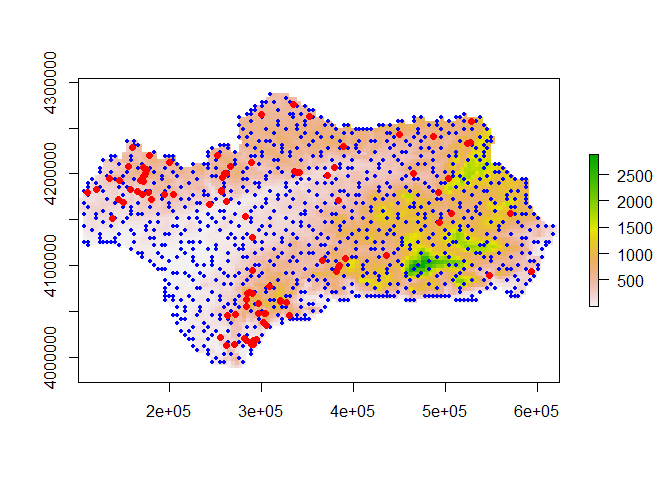
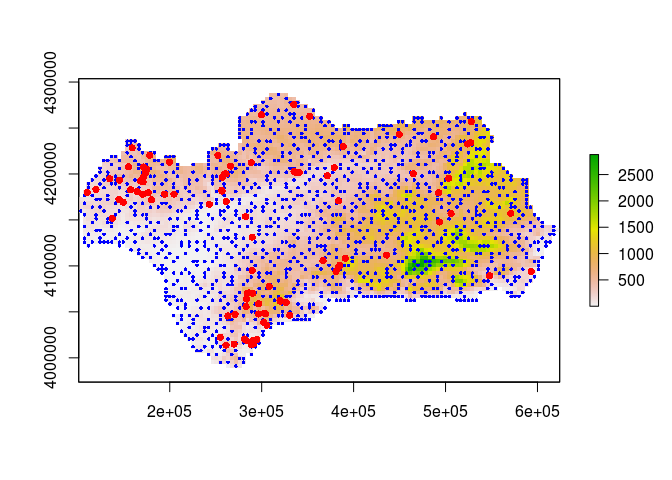
added quasirandom_covariate background points.

diff --git a/readme.md b/readme.md
@@ -70,12 +70,23 @@ For a laugh, let's generate some quasirandom background points and plot them aga
 ``` r
 library(qrbp)
 POdata <- species[species$Occurrence == 1,]
-bkpts <- generate_background_points(number_of_background_points = 1000,
+bkpts <- generate_background_points(number_of_background_points = 2000,
                                     known_sites = POdata@coords,
                                     study_area = preds[[1]],
                                     model_covariates = preds,
-                                    method = 'quasirandom')
+                                    resolution = 2000,
+                                    method = 'quasirandom_covariates')
 ```
+
+    ## Number of samples considered (number of samples found): 20000(0)
+
+    ## Finished
+
+``` r
+nrow(bkpts)
+```
+
+    ## [1] 2094
 
 Now let's plot our background points
 
@@ -102,7 +113,7 @@ library(mgcv)
     ## 
     ##     getData
 
-    ## This is mgcv 1.8-16. For overview type 'help("mgcv-package")'.
+    ## This is mgcv 1.8-11. For overview type 'help("mgcv-package")'.
 
 ``` r
 fm1 <- gam(presence ~ s(elevation) +
